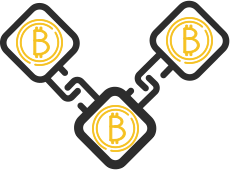
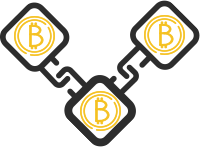
s

diff --git a/assets/templates/miner/css/style.min.css b/assets/templates/miner/css/style.min.css
@@ -1,1 +1,1 @@
-.page-header__social,.page-header__time{display:-webkit-box;display:-ms-flexbox}.cloud__title,.diff__flex,.diff__right,.hardware h2,.mining-sub p,.nav__left a,.nav__right a,.page-header__about b,.page-header__number small,.page-header__timer b,.proof__box,.proof__right,.why b{text-transform:uppercase}body{min-width:320px;margin:0;font-family:'SF UI Text',Arial sans-serif}.container{width:1150px;margin:auto}@media screen and (max-width:1200px){.container{width:95%}}@media screen and (max-width:768px){.container{width:98%}}@font-face{font-family:'SF UI Text';src:local("SF UI Text Semibold"),local("SFUIText-Semibold"),url(../fonts/SFUIText-Semibold.woff) format("woff");font-weight:600;font-style:normal}@font-face{font-family:'SF UI Text';src:local("SF UI Text Regular"),local("SFUIText-Regular"),url(../fonts/SFUIText-Regular.woff) format("woff");font-weight:400;font-style:normal}@font-face{font-family:'SF UI Text';src:local("SF UI Text Bold"),local("SFUIText-Bold"),url(../fonts/SFUIText-Bold.woff) format("woff");font-weight:700;font-style:normal}@font-face{font-family:'SF UI Text';src:local("SF UI Text Light"),local("SFUIText-Light"),url(../fonts/SFUIText-Light.woff) format("woff");font-weight:300;font-style:normal}@font-face{font-family:'SF UI Text';src:local("SF UI Text Heavy"),local("SFUIText-Heavy"),url(../fonts/SFUIText-Heavy.woff) format("woff");font-weight:900;font-style:normal}@font-face{font-family:'SF UI Text';src:local("SF UI Text Medium"),local("SFUIText-Medium"),url(../fonts/SFUIText-Medium.woff) format("woff");font-weight:500;font-style:normal}.page-header{background:url(../img/header-bg.png) no-repeat #0f0e12;background-size:cover}.page-header h1{margin-top:100px;margin-bottom:0;color:#fff;font-size:60px}.page-header__title{padding-top:15px}.page-header__title b{color:#fff;font-size:30px;font-weight:700}.page-header__social{display:flex;margin-top:40px}.page-header__link{display:block;width:40px;height:40px;margin-right:20px;opacity:.5;-webkit-transition:.3s;transition:.3s}.page-header__link:hover{opacity:1}.page-header__link--phone{background:url(../img/header-sprite.png) -69px -10px}.page-header__link--linkedin{background:url(../img/header-sprite.png) -128px -10px}.page-header__link--email{background:url(../img/header-sprite.png) -248px -10px}.page-header__link--facebook{background:url(../img/header-sprite.png) -10px -10px}.page-header__link--skype{background:url(../img/header-sprite.png) -188px -10px}.page-header__timer{margin-top:100px;color:#fff}.page-header__timer b{font-size:20px;font-weight:700;font-style:italic}.page-header__time{display:flex;margin-top:25px}.page-header__item,.page-header__offer{display:-webkit-box;display:-ms-flexbox}.page-header__number{margin-right:20px;margin-left:10px;font-style:italic;text-align:center}.page-header__number small{font-size:16px}.page-header__number p{margin:0;font-size:55px;font-weight:700}.page-header__number--ml{margin-left:-10px}.page-header__dot{font-size:25px;font-style:italic}.page-header__offer{display:flex;-webkit-box-pack:justify;-ms-flex-pack:justify;justify-content:space-between;margin-top:90px}.page-header__item{display:flex;-webkit-box-orient:vertical;-webkit-box-direction:normal;-ms-flex-direction:column;flex-direction:column;height:76px;padding-top:10px;padding-left:100px;background:url(../img/header-offer.png) left no-repeat}.page-header__item b{color:#fff;font-size:25px}.page-header__item a{color:#ffe592;font-size:20px;text-decoration:none}.page-header__about{display:-webkit-box;display:-ms-flexbox;display:flex;-webkit-box-pack:justify;-ms-flex-pack:justify;justify-content:space-between;margin-top:150px;padding-bottom:50px}.page-header__about b{font-size:25px}.page-header__right a{color:#4183c4;text-decoration:none}.page-header__right ul{padding-left:20px}@media screen and (max-width:1200px){.page-header__about{margin-top:160px}.page-header__item b{padding-bottom:10px}.page-header__item a{font-size:18px}}@media screen and (max-width:768px){.page-header__timer,.page-header__title{text-align:center}.page-header{min-height:800px}.page-header h1{margin-top:0;font-size:30px}.page-header__title b{font-size:20px}.page-header__social{-webkit-box-pack:center;-ms-flex-pack:center;justify-content:center}.page-header__time{-webkit-box-pack:center;-ms-flex-pack:center;justify-content:center;-ms-flex-wrap:wrap;flex-wrap:wrap}.page-header__about,.page-header__offer{display:none}}.nav{padding-top:50px}.nav__flex{display:-webkit-box;display:-ms-flexbox;display:flex;-webkit-box-pack:justify;-ms-flex-pack:justify;justify-content:space-between}.nav__toggle{display:none}.nav__left a{margin-right:20px;padding-bottom:3px;color:#fff;font-size:20px;font-weight:100;text-decoration:none;-webkit-transition:.3s;transition:.3s}.nav__left a:hover{color:#ffcc31;border-bottom:1px solid #ffcc31}.nav__right{display:-webkit-box;display:-ms-flexbox;display:flex;color:#fff;font-size:14px}.nav__right a{margin-right:10px;padding:2px 15px;color:#fff;border:1px solid #fff;text-decoration:none;-webkit-transition:.3s;transition:.3s}.nav__right a:hover{color:#000;background:#fff}.nav__language{margin-top:4px;margin-right:15px}.nav__language a{margin:0;padding:0;border:none}.nav__language a:hover{color:#ffcc31;background:0 0}@media screen and (max-width:768px){.nav__flex{position:relative;text-align:center;-webkit-box-orient:vertical;-webkit-box-direction:normal;-ms-flex-direction:column;flex-direction:column}.nav__left{margin-top:30px}.nav__left a{display:block;margin-bottom:5px}.nav__left a:hover{border:none}.nav__right{-webkit-box-pack:center;-ms-flex-pack:center;justify-content:center;margin-top:20px}.nav__toggle{display:block;position:absolute;right:0;top:0;width:55px;height:50px;font-size:0;background:0 0;border:none;cursor:pointer;-webkit-transition:.3s;transition:.3s}.nav--closed .nav__toggle::before{content:"";position:absolute;top:15px;left:13px;width:30px;height:2px;background-color:#fff;-webkit-box-shadow:0 8px 00 #fff,0 16px 00 #fff;box-shadow:0 8px 00 #fff,0 16px 00 #fff;-webkit-transition:background-color .3s;transition:background-color .3s}.nav--closed .nav__toggle:active::before{background-color:rgba(255,255,255,.3);-webkit-box-shadow:0 8px 0 rgba(255,255,255,.3),0 16px 0 rgba(255,255,255,.3);box-shadow:0 8px 0 rgba(255,255,255,.3),0 16px 0 rgba(255,255,255,.3)}.nav--opened .nav__toggle{top:10px;right:20px;width:40px;height:40px;z-index:20}.nav--opened .nav__toggle::after,.nav--opened .nav__toggle::before{content:"";position:absolute;top:20px;left:8px;width:25px;height:2px;background-color:#fff;-webkit-box-shadow:none;box-shadow:none;-webkit-transition:background-color .5s;transition:background-color .5s}.nav--opened .nav__toggle::before{-webkit-transform:rotate(45deg);transform:rotate(45deg)}.nav--opened .nav__toggle::after{-webkit-transform:rotate(-45deg);transform:rotate(-45deg)}.nav--opened .nav__toggle:active::after,.nav--opened .nav__toggle:active::before{background-color:rgba(255,255,255,.3)}.nav--closed .nav__item{display:none}.nav--closed .nav__item--active{display:block;text-align:center}.nav--closed .nav__right,.nav--nojs .nav__toggle{display:none}.nav--opened .container{position:absolute;top:0;right:0;left:0;z-index:10;height:310px;background:rgba(44,44,45,.9);-webkit-animation:menu-opened .5s;animation:menu-opened .5s}.nav--nojs .container{position:static;height:auto}.nav--nojs .nav__item{display:block}.nav--nojs .nav__item--active{text-align:left}.nav--nojs .nav__right{display:block;background-color:#6a4d38}@-webkit-keyframes menu-opened{0%{-webkit-transform:translateX(100%);transform:translateX(100%)}100%{-webkit-transform:translateX(0);transform:translateX(0)}}@keyframes menu-opened{0%{-webkit-transform:translateX(100%);transform:translateX(100%)}100%{-webkit-transform:translateX(0);transform:translateX(0)}}}.hardware h2,.hardware__item,.mining-sub p,.tabs tr{text-align:center}.hardware h2{margin-top:70px;margin-bottom:0;color:#480000;font-size:30px}.hardware__sub-title{color:#480000;text-align:center}.hardware__list,.hardware__video{display:-webkit-box;display:-ms-flexbox;display:flex;-webkit-box-pack:justify;-ms-flex-pack:justify;justify-content:space-between;margin-top:50px}.hardware__item p{margin-top:0;margin-bottom:10px}.hardware__item a{display:block;margin:auto;width:160px;height:26px;background:url(../img/hardware-amazon.png)}.hardware__title{font-size:25px;font-weight:700;text-transform:uppercase}.hardware__charter{padding-top:20px;font-size:18px;font-weight:700}.hardware__value{color:#480000;font-size:25px;font-weight:700}.hardware__value--yes{color:#4183c4;text-decoration:underline}@media screen and (max-width:768px){.hardware__list,.hardware__video{-webkit-box-orient:vertical;-webkit-box-direction:normal}.hardware__video{-ms-flex-direction:column;flex-direction:column;-webkit-box-align:center;-ms-flex-align:center;align-items:center}.hardware__video iframe{width:100%;margin-bottom:40px}.hardware__list{-ms-flex-direction:column;flex-direction:column}.hardware__title{padding-top:40px}}.tabs__flex{display:-webkit-box;display:-ms-flexbox;display:flex;-webkit-box-pack:justify;-ms-flex-pack:justify;justify-content:space-between;margin-top:60px;padding-bottom:30px}.tabs__flex p{font-size:18px;opacity:.8}.tabs th{color:#fff;background:#666}.tabs tr{background:#a6a6a6}.tabs a{color:#000;text-decoration:none;-webkit-transition:.3s;transition:.3s;opacity:.5}.tabs a:hover{color:#000;text-decoration:underline;opacity:1}.mining{min-height:600px;background:url(../img/mining-bg.png) top no-repeat;background-size:cover}@media screen and (max-width:768px){.tabs__flex{-webkit-box-orient:vertical;-webkit-box-direction:normal;-ms-flex-direction:column;flex-direction:column;text-align:center;-webkit-box-align:center;-ms-flex-align:center;align-items:center}.mining{display:none}}.mining-sub p{font-size:20px;font-weight:700}.mining-sub__flex{display:-webkit-box;display:-ms-flexbox;display:flex;-ms-flex-pack:distribute;justify-content:space-around;margin-top:50px;padding-bottom:50px}.mining-sub__left{height:300px;background:url(../img/mining-left.png) bottom no-repeat}.mining-sub__right{width:230px;background:url(../img/mining-right.png) bottom no-repeat}@media screen and (max-width:1200px){.mining{min-height:500px}.mining-sub p{font-size:20px}.mining-sub__flex{-ms-flex-pack:distribute;justify-content:space-around;margin-top:0}}@media screen and (max-width:768px){.mining-sub__flex{-webkit-box-align:center;-ms-flex-align:center;align-items:center;-webkit-box-orient:vertical;-webkit-box-direction:normal;-ms-flex-direction:column;flex-direction:column}.mining-sub__flex p{font-size:16px}.mining-sub__left{height:340px;margin-bottom:50px}.mining-sub__right{padding-bottom:180px}.truck{display:none}}.truck{min-height:650px;margin-bottom:90px;background:url(../img/truck-bg.png) top no-repeat;background-size:cover}@media screen and (max-width:1200px){.truck{min-height:500px;margin-top:50px}}.proof__flex{display:-webkit-box;display:-ms-flexbox;display:flex;-ms-flex-pack:distribute;justify-content:space-around;padding-bottom:70px}.proof__left{padding:40px;color:#fff;font-size:40px;font-weight:700;background:#000}.proof__left p{margin:0}.proof__right{padding-top:20px;padding-left:200px;font-size:25px;font-weight:700;background:url(../img/proof-power.png) left no-repeat}.proof__box,.proof__resume{font-size:20px;text-align:center}.proof__box{padding-top:170px;width:170px;font-weight:700}.diff__down,.diff__up{width:350px;height:109px}.proof__box--energy{background:url(../img/proof-energy.png) top no-repeat}.proof__box--hard{background:url(../img/proof-hard.png) top no-repeat}.proof__box--time{margin-top:20px;padding-top:150px;background:url(../img/proof-time.png) top no-repeat}.proof__resume{padding-bottom:40px}@media screen and (max-width:1200px){.proof__flex{display:-webkit-box;display:-ms-flexbox;display:flex;-ms-flex-pack:distribute;justify-content:space-around;padding-bottom:70px}}@media screen and (max-width:768px){.proof__flex{display:-webkit-box;display:-ms-flexbox;display:flex;-webkit-box-orient:vertical;-webkit-box-direction:normal;-ms-flex-direction:column;flex-direction:column;-webkit-box-align:center;-ms-flex-align:center;align-items:center;padding-bottom:20px}.proof__box{margin-bottom:50px}.proof__right{padding-left:0;font-size:16px;text-align:center;background:0 0}.proof__resume{margin-top:0;margin-bottom:0;padding-bottom:50px;font-size:16px}}.diff__left,.rewards p{font-size:40px;font-weight:700}.rewards{min-height:1310px;background:url(../img/rewards-bg.png) no-repeat;background-size:cover}.rewards p{padding-top:70px;text-align:center}.rewards img{display:block;max-width:100%;margin:auto}@media screen and (max-width:768px){.rewards{display:none}}.cloud__flex,.diff__flex{display:-webkit-box;display:-ms-flexbox}.diff__flex{display:flex;-ms-flex-pack:distribute;justify-content:space-around;margin-top:100px}.diff__left{padding:40px;color:#fff;background:#000}.diff__left p{margin:0}.diff__right{padding-top:20px;color:#262626;font-size:20px;font-weight:700}.diff__up{background:url(../img/diff-left.png) no-repeat}.diff__down{background:url(../img/diff-right.png) no-repeat}@media screen and (max-width:768px){.diff__flex{display:-webkit-box;display:-ms-flexbox;display:flex;-webkit-box-orient:vertical;-webkit-box-direction:normal;-ms-flex-direction:column;flex-direction:column;-webkit-box-align:center;-ms-flex-align:center;align-items:center;margin-top:0}.diff__right{font-size:16px;text-align:center}.diff__down,.diff__up{display:none}.diff__up{margin-bottom:40px}}.edge{min-height:1720px;margin-top:-300px;background:url(../img/edge-bg.png) top no-repeat;background-size:cover}.edge img{display:block;max-width:100%;padding-top:600px;margin:auto}@media screen and (max-width:768px){.edge{display:none}}.cloud{min-height:850px;margin-top:-110px;background:url(../img/cloud-bg.png);background-size:cover}.cloud__flex{display:flex;-ms-flex-pack:distribute;justify-content:space-around;padding-top:150px;padding-bottom:100px}.cloud__left,.cloud__middle{width:500px;font-size:18px;color:rgba(0,0,0,.8)}.cloud__title{margin-top:20px;padding:30px;color:#fff;font-size:40px;font-weight:700;background:#000}@media screen and (max-width:1200px){.cloud{margin-top:-150px;background:url(../img/cloud-bg.png)}}@media screen and (max-width:768px){.cloud__flex{-webkit-box-orient:vertical;-webkit-box-direction:normal;-ms-flex-direction:column;flex-direction:column;text-align:center;-webkit-box-pack:center;-ms-flex-pack:center;justify-content:center;margin-top:140px;padding-top:130px}.cloud__title{padding:10px;font-size:30px}.cloud__left,.cloud__middle{width:auto}}.padding-bottom,.why__flex{padding-bottom:100px}.why{background:url(../img/why-bg.png)}.why b{font-size:25px}.why ul{padding-left:20px;font-size:18px;font-weight:700;opacity:.8}.why__flex{display:-webkit-box;display:-ms-flexbox;display:flex;-webkit-box-pack:justify;-ms-flex-pack:justify;justify-content:space-between;margin-top:70px}.why__left{padding-left:100px;background:url(../img/check-green.png) left top no-repeat}.why__right{padding-left:100px;background:url(../img/check-red.png) left top no-repeat}@media screen and (max-width:768px){.why__left,.why__right{text-align:center;padding-top:90px;padding-left:0}.why__flex{-webkit-box-orient:vertical;-webkit-box-direction:normal;-ms-flex-direction:column;flex-direction:column;margin-top:0;padding-bottom:50px}.why__left{background:url(../img/check-green.png) top no-repeat}.why__right{background:url(../img/check-red.png) top no-repeat}}
+.page-header__social,.page-header__time{display:-webkit-box;display:-ms-flexbox}.cloud__title,.diff__flex,.diff__right,.hardware h2,.mining-sub p,.nav__left a,.nav__right a,.page-header__about b,.page-header__number small,.page-header__timer b,.proof__box,.proof__right,.why b{text-transform:uppercase}body{min-width:320px;margin:0;font-family:'SF UI Text',Arial sans-serif}.container{width:1150px;margin:auto}@media screen and (max-width:1200px){.container{width:95%}}@media screen and (max-width:768px){.container{width:98%}}@font-face{font-family:'SF UI Text';src:local("SF UI Text Semibold"),local("SFUIText-Semibold"),url(../fonts/SFUIText-Semibold.woff) format("woff");font-weight:600;font-style:normal}@font-face{font-family:'SF UI Text';src:local("SF UI Text Regular"),local("SFUIText-Regular"),url(../fonts/SFUIText-Regular.woff) format("woff");font-weight:400;font-style:normal}@font-face{font-family:'SF UI Text';src:local("SF UI Text Bold"),local("SFUIText-Bold"),url(../fonts/SFUIText-Bold.woff) format("woff");font-weight:700;font-style:normal}@font-face{font-family:'SF UI Text';src:local("SF UI Text Light"),local("SFUIText-Light"),url(../fonts/SFUIText-Light.woff) format("woff");font-weight:300;font-style:normal}@font-face{font-family:'SF UI Text';src:local("SF UI Text Heavy"),local("SFUIText-Heavy"),url(../fonts/SFUIText-Heavy.woff) format("woff");font-weight:900;font-style:normal}@font-face{font-family:'SF UI Text';src:local("SF UI Text Medium"),local("SFUIText-Medium"),url(../fonts/SFUIText-Medium.woff) format("woff");font-weight:500;font-style:normal}.page-header{background:url(../img/header-bg.png) no-repeat #0f0e12;background-size:cover}.page-header h1{margin-top:100px;margin-bottom:0;color:#fff;font-size:60px}.page-header__title{padding-top:15px}.page-header__title b{color:#fff;font-size:30px;font-weight:700}.page-header__social{display:flex;margin-top:40px}.page-header__link{display:block;width:40px;height:40px;margin-right:20px;opacity:.5;-webkit-transition:.3s;transition:.3s}.page-header__link:hover{opacity:1}.page-header__link--phone{background:url(../img/header-sprite.png) -69px -10px}.page-header__link--linkedin{background:url(../img/header-sprite.png) -128px -10px}.page-header__link--email{background:url(../img/header-sprite.png) -248px -10px}.page-header__link--facebook{background:url(../img/header-sprite.png) -10px -10px}.page-header__link--skype{background:url(../img/header-sprite.png) -188px -10px}.page-header__timer{margin-top:100px;color:#fff}.page-header__timer b{font-size:20px;font-weight:700;font-style:italic}.page-header__time{display:flex;margin-top:25px}.page-header__item,.page-header__offer{display:-webkit-box;display:-ms-flexbox}.page-header__number{margin-right:20px;margin-left:10px;font-style:italic;text-align:center}.page-header__number small{font-size:16px}.page-header__number p{margin:0;font-size:55px;font-weight:700}.page-header__number--ml{margin-left:-10px}.page-header__dot{font-size:25px;font-style:italic}.page-header__offer{display:flex;-webkit-box-pack:justify;-ms-flex-pack:justify;justify-content:space-between;margin-top:90px}.page-header__item{display:flex;-webkit-box-orient:vertical;-webkit-box-direction:normal;-ms-flex-direction:column;flex-direction:column;height:76px;padding-top:10px;padding-left:100px;background:url(../img/header-offer.png) left no-repeat}.page-header__item b{color:#fff;font-size:25px}.page-header__item a{color:#ffe592;font-size:20px;text-decoration:none}.page-header__about{display:-webkit-box;display:-ms-flexbox;display:flex;-webkit-box-pack:justify;-ms-flex-pack:justify;justify-content:space-between;margin-top:150px;padding-bottom:50px}.page-header__about b{font-size:25px}.page-header__right a{color:#4183c4;text-decoration:none}.page-header__right ul{padding-left:20px}@media screen and (max-width:1200px){.page-header__about{margin-top:160px}.page-header__item b{padding-bottom:10px}.page-header__item a{font-size:18px}}@media screen and (max-width:768px){.page-header__timer,.page-header__title{text-align:center}.page-header{min-height:800px}.page-header h1{margin-top:0;font-size:30px}.page-header__title b{font-size:20px}.page-header__social{-webkit-box-pack:center;-ms-flex-pack:center;justify-content:center}.page-header__time{-webkit-box-pack:center;-ms-flex-pack:center;justify-content:center;-ms-flex-wrap:wrap;flex-wrap:wrap}.page-header__about,.page-header__offer{display:none}}.nav{padding-top:50px}.nav__flex{display:-webkit-box;display:-ms-flexbox;display:flex;-webkit-box-pack:justify;-ms-flex-pack:justify;justify-content:space-between}.nav__toggle{display:none}.nav__left a{margin-right:20px;padding-bottom:3px;color:#fff;font-size:20px;font-weight:100;text-decoration:none;-webkit-transition:.3s;transition:.3s}.nav__left a:hover{color:#ffcc31;border-bottom:1px solid #ffcc31}.nav__right{display:-webkit-box;display:-ms-flexbox;display:flex;color:#fff;font-size:14px}.nav__right a{margin-right:10px;padding:2px 15px;color:#fff;border:1px solid #fff;text-decoration:none;-webkit-transition:.3s;transition:.3s}.nav__right a:hover{color:#000;background:#fff}.nav__language{margin-top:4px;margin-right:15px}.nav__language a{margin:0;padding:0;border:none}.nav__language a:hover{color:#ffcc31;background:0 0}@media screen and (max-width:768px){.nav__flex{position:relative;text-align:center;-webkit-box-orient:vertical;-webkit-box-direction:normal;-ms-flex-direction:column;flex-direction:column}.nav__left{margin-top:30px}.nav__left a{display:block;margin-bottom:5px}.nav__left a:hover{border:none}.nav__right{-webkit-box-pack:center;-ms-flex-pack:center;justify-content:center;margin-top:20px}.nav__toggle{display:block;position:absolute;right:0;top:0;width:55px;height:50px;font-size:0;background:0 0;border:none;cursor:pointer;-webkit-transition:.3s;transition:.3s}.nav--closed .nav__toggle::before{content:"";position:absolute;top:15px;left:13px;width:30px;height:2px;background-color:#fff;-webkit-box-shadow:0 8px 00 #fff,0 16px 00 #fff;box-shadow:0 8px 00 #fff,0 16px 00 #fff;-webkit-transition:background-color .3s;transition:background-color .3s}.nav--closed .nav__toggle:active::before{background-color:rgba(255,255,255,.3);-webkit-box-shadow:0 8px 0 rgba(255,255,255,.3),0 16px 0 rgba(255,255,255,.3);box-shadow:0 8px 0 rgba(255,255,255,.3),0 16px 0 rgba(255,255,255,.3)}.nav--opened .nav__toggle{top:10px;right:20px;width:40px;height:40px;z-index:20}.nav--opened .nav__toggle::after,.nav--opened .nav__toggle::before{content:"";position:absolute;top:20px;left:8px;width:25px;height:2px;background-color:#fff;-webkit-box-shadow:none;box-shadow:none;-webkit-transition:background-color .5s;transition:background-color .5s}.nav--opened .nav__toggle::before{-webkit-transform:rotate(45deg);transform:rotate(45deg)}.nav--opened .nav__toggle::after{-webkit-transform:rotate(-45deg);transform:rotate(-45deg)}.nav--opened .nav__toggle:active::after,.nav--opened .nav__toggle:active::before{background-color:rgba(255,255,255,.3)}.nav--closed .nav__item{display:none}.nav--closed .nav__item--active{display:block;text-align:center}.nav--closed .nav__right,.nav--nojs .nav__toggle{display:none}.nav--opened .container{position:absolute;top:0;right:0;left:0;z-index:10;height:310px;background:rgba(44,44,45,.9);-webkit-animation:menu-opened .5s;animation:menu-opened .5s}.nav--nojs .container{position:static;height:auto}.nav--nojs .nav__item{display:block}.nav--nojs .nav__item--active{text-align:left}.nav--nojs .nav__right{display:block;background-color:#6a4d38}@-webkit-keyframes menu-opened{0%{-webkit-transform:translateX(100%);transform:translateX(100%)}100%{-webkit-transform:translateX(0);transform:translateX(0)}}@keyframes menu-opened{0%{-webkit-transform:translateX(100%);transform:translateX(100%)}100%{-webkit-transform:translateX(0);transform:translateX(0)}}}.hardware h2,.hardware__item,.mining-sub p,.tabs tr{text-align:center}.hardware h2{margin-top:70px;margin-bottom:0;color:#480000;font-size:30px}.hardware__sub-title{color:#480000;text-align:center}.hardware__list,.hardware__video{display:-webkit-box;display:-ms-flexbox;display:flex;-webkit-box-pack:justify;-ms-flex-pack:justify;justify-content:space-between;margin-top:50px}.hardware__item p{margin-top:0;margin-bottom:10px}.hardware__item a{display:block;margin:auto;width:160px;height:26px;background:url(../img/hardware-amazon.png)}.hardware__title{font-size:25px;font-weight:700;text-transform:uppercase}.hardware__charter{padding-top:20px;font-size:18px;font-weight:700}.hardware__value{color:#480000;font-size:25px;font-weight:700}.hardware__value--yes{color:#4183c4;text-decoration:underline}@media screen and (max-width:768px){.hardware__list,.hardware__video{-webkit-box-orient:vertical;-webkit-box-direction:normal}.hardware__video{-ms-flex-direction:column;flex-direction:column;-webkit-box-align:center;-ms-flex-align:center;align-items:center}.hardware__video iframe{width:100%;margin-bottom:40px}.hardware__list{-ms-flex-direction:column;flex-direction:column}.hardware__title{padding-top:40px}}.tabs__flex{display:-webkit-box;display:-ms-flexbox;display:flex;-webkit-box-pack:justify;-ms-flex-pack:justify;justify-content:space-between;margin-top:60px;padding-bottom:30px}.tabs__flex p{font-size:18px;opacity:.8}.tabs th{color:#fff;background:#666}.tabs tr{background:#a6a6a6}.tabs a{color:#000;text-decoration:none;-webkit-transition:.3s;transition:.3s;opacity:.5}.tabs a:hover{color:#000;text-decoration:underline;opacity:1}.mining{min-height:600px;background:url(../img/mining-bg.png) top no-repeat;background-size:cover}@media screen and (max-width:768px){.tabs__flex{-webkit-box-orient:vertical;-webkit-box-direction:normal;-ms-flex-direction:column;flex-direction:column;text-align:center;-webkit-box-align:center;-ms-flex-align:center;align-items:center}.mining{display:none}}.mining-sub p{font-size:18px;font-weight:700}.mining-sub__flex{display:-webkit-box;display:-ms-flexbox;display:flex;-ms-flex-pack:distribute;justify-content:space-around;margin-top:50px;padding-bottom:50px}.mining-sub__left{height:250px;background:url(../img/mining-left.png) bottom no-repeat}.mining-sub__right{width:200px;background:url(../img/mining-right.png) bottom no-repeat}@media screen and (max-width:1200px){.mining{min-height:500px}.mining-sub p{font-size:20px}.mining-sub__flex{-ms-flex-pack:distribute;justify-content:space-around;margin-top:0}}@media screen and (max-width:768px){.mining-sub__flex{-webkit-box-align:center;-ms-flex-align:center;align-items:center;-webkit-box-orient:vertical;-webkit-box-direction:normal;-ms-flex-direction:column;flex-direction:column}.mining-sub__flex p{font-size:16px}.mining-sub__left{height:340px;margin-bottom:50px}.mining-sub__right{padding-bottom:180px}.truck{display:none}}.truck{min-height:650px;margin-bottom:90px;background:url(../img/truck-bg.png) top no-repeat;background-size:cover}@media screen and (max-width:1200px){.truck{min-height:500px;margin-top:50px}}.proof__flex{display:-webkit-box;display:-ms-flexbox;display:flex;-ms-flex-pack:distribute;justify-content:space-around;padding-bottom:70px}.proof__left{padding:40px;color:#fff;font-size:40px;font-weight:700;background:#000}.proof__left p{margin:0}.proof__right{padding-top:20px;padding-left:200px;font-size:25px;font-weight:700;background:url(../img/proof-power.png) left no-repeat}.proof__box,.proof__resume{font-size:20px;text-align:center}.proof__box{padding-top:170px;width:170px;font-weight:700}.diff__down,.diff__up{width:350px;height:109px}.proof__box--energy{background:url(../img/proof-energy.png) top no-repeat}.proof__box--hard{background:url(../img/proof-hard.png) top no-repeat}.proof__box--time{margin-top:20px;padding-top:150px;background:url(../img/proof-time.png) top no-repeat}.proof__resume{padding-bottom:40px}@media screen and (max-width:1200px){.proof__flex{display:-webkit-box;display:-ms-flexbox;display:flex;-ms-flex-pack:distribute;justify-content:space-around;padding-bottom:70px}}@media screen and (max-width:768px){.proof__flex{display:-webkit-box;display:-ms-flexbox;display:flex;-webkit-box-orient:vertical;-webkit-box-direction:normal;-ms-flex-direction:column;flex-direction:column;-webkit-box-align:center;-ms-flex-align:center;align-items:center;padding-bottom:20px}.proof__box{margin-bottom:50px}.proof__right{padding-left:0;font-size:16px;text-align:center;background:0 0}.proof__resume{margin-top:0;margin-bottom:0;padding-bottom:50px;font-size:16px}}.diff__left,.rewards p{font-size:40px;font-weight:700}.rewards{min-height:1310px;background:url(../img/rewards-bg.png) no-repeat;background-size:cover}.rewards p{padding-top:70px;text-align:center}.rewards img{display:block;max-width:100%;margin:auto}@media screen and (max-width:768px){.rewards{display:none}}.cloud__flex,.diff__flex{display:-webkit-box;display:-ms-flexbox}.diff__flex{display:flex;-ms-flex-pack:distribute;justify-content:space-around;margin-top:100px}.diff__left{padding:40px;color:#fff;background:#000}.diff__left p{margin:0}.diff__right{padding-top:20px;color:#262626;font-size:20px;font-weight:700}.diff__up{background:url(../img/diff-left.png) no-repeat}.diff__down{background:url(../img/diff-right.png) no-repeat}@media screen and (max-width:768px){.diff__flex{display:-webkit-box;display:-ms-flexbox;display:flex;-webkit-box-orient:vertical;-webkit-box-direction:normal;-ms-flex-direction:column;flex-direction:column;-webkit-box-align:center;-ms-flex-align:center;align-items:center;margin-top:0}.diff__right{font-size:16px;text-align:center}.diff__down,.diff__up{display:none}.diff__up{margin-bottom:40px}}.edge{min-height:1720px;margin-top:-300px;background:url(../img/edge-bg.png) top no-repeat;background-size:cover}.edge img{display:block;max-width:100%;padding-top:600px;margin:auto}@media screen and (max-width:768px){.edge{display:none}}.cloud{min-height:850px;margin-top:-110px;background:url(../img/cloud-bg.png);background-size:cover}.cloud__flex{display:flex;-ms-flex-pack:distribute;justify-content:space-around;padding-top:150px;padding-bottom:100px}.cloud__left,.cloud__middle{width:500px;font-size:18px;color:rgba(0,0,0,.8)}.cloud__title{margin-top:20px;padding:30px;color:#fff;font-size:40px;font-weight:700;background:#000}@media screen and (max-width:1200px){.cloud{margin-top:-150px;background:url(../img/cloud-bg.png)}}@media screen and (max-width:768px){.cloud__flex{-webkit-box-orient:vertical;-webkit-box-direction:normal;-ms-flex-direction:column;flex-direction:column;text-align:center;-webkit-box-pack:center;-ms-flex-pack:center;justify-content:center;margin-top:140px;padding-top:130px}.cloud__title{padding:10px;font-size:30px}.cloud__left,.cloud__middle{width:auto}}.padding-bottom,.why__flex{padding-bottom:100px}.why{background:url(../img/why-bg.png)}.why b{font-size:25px}.why ul{padding-left:20px;font-size:18px;font-weight:700;opacity:.8}.why__flex{display:-webkit-box;display:-ms-flexbox;display:flex;-webkit-box-pack:justify;-ms-flex-pack:justify;justify-content:space-between;margin-top:70px}.why__left{padding-left:100px;background:url(../img/check-green.png) left top no-repeat}.why__right{padding-left:100px;background:url(../img/check-red.png) left top no-repeat}@media screen and (max-width:768px){.why__left,.why__right{text-align:center;padding-top:90px;padding-left:0}.why__flex{-webkit-box-orient:vertical;-webkit-box-direction:normal;-ms-flex-direction:column;flex-direction:column;margin-top:0;padding-bottom:50px}.why__left{background:url(../img/check-green.png) top no-repeat}.why__right{background:url(../img/check-red.png) top no-repeat}}

diff --git a/assets/templates/miner/css/style.css b/assets/templates/miner/css/style.css
@@ -533,7 +533,7 @@ body {
     display: none; } }
 
 .mining-sub p {
-  font-size: 20px;
+  font-size: 18px;
   font-weight: bold;
   text-align: center;
   text-transform: uppercase; }
@@ -548,11 +548,11 @@ body {
   padding-bottom: 50px; }
 
 .mining-sub__left {
-  height: 300px;
+  height: 250px;
   background: url("../img/mining-left.png") no-repeat bottom; }
 
 .mining-sub__right {
-  width: 230px;
+  width: 200px;
   background: url("../img/mining-right.png") no-repeat bottom; }
 
 @media screen and (max-width: 1200px) {

diff --git a/assets/templates/miner/sass/blocks/mining-sub.scss b/assets/templates/miner/sass/blocks/mining-sub.scss
@@ -1,7 +1,7 @@
 .mining-sub {
   
   & p {
-    font-size: 20px;
+    font-size: 18px;
     font-weight: bold;
     text-align: center;
     text-transform: uppercase;
@@ -16,12 +16,12 @@
 }
 
 .mining-sub__left {
-  height: 300px;
+  height: 250px;
   background: url('../img/mining-left.png') no-repeat bottom;
 }
 
 .mining-sub__right {
-  width: 230px;
+  width: 200px;
   background: url('../img/mining-right.png') no-repeat bottom;
 }
 
